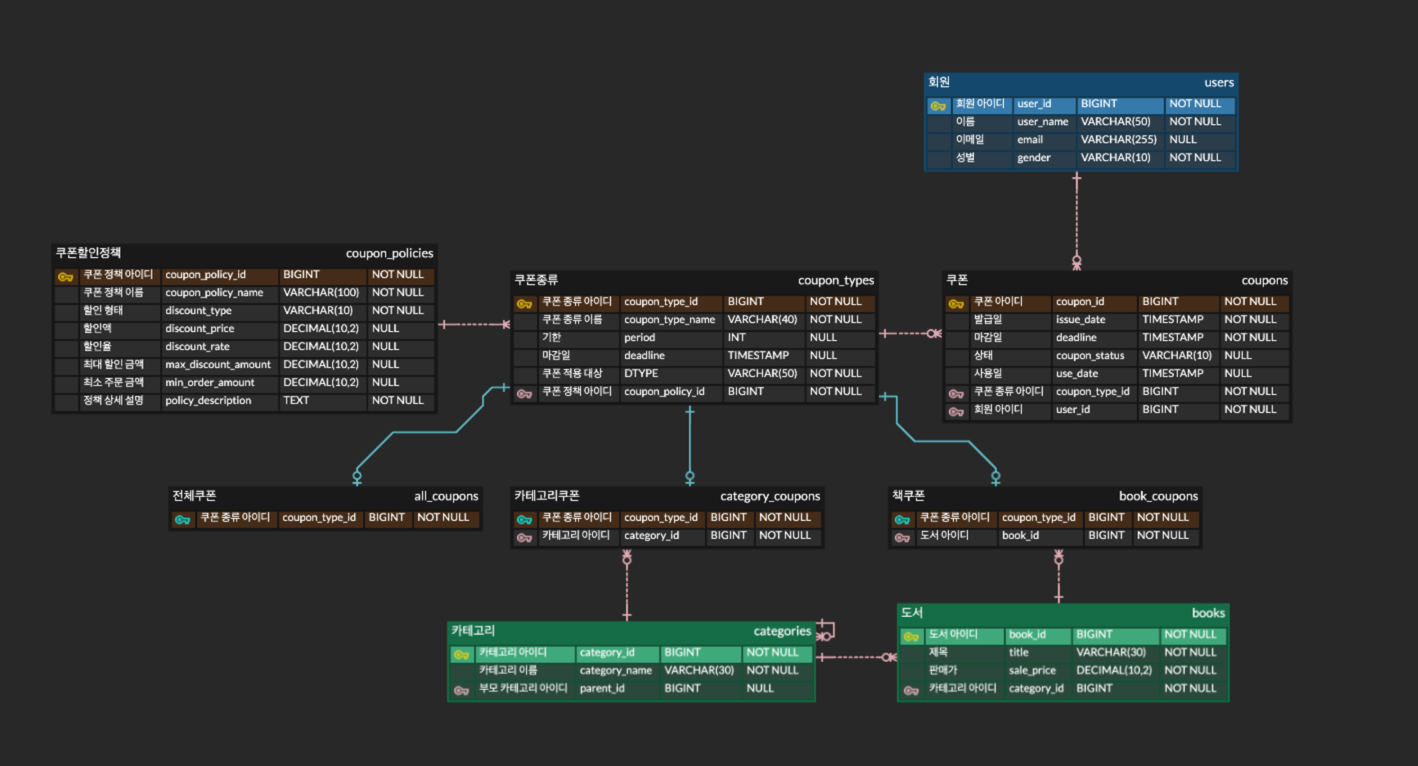
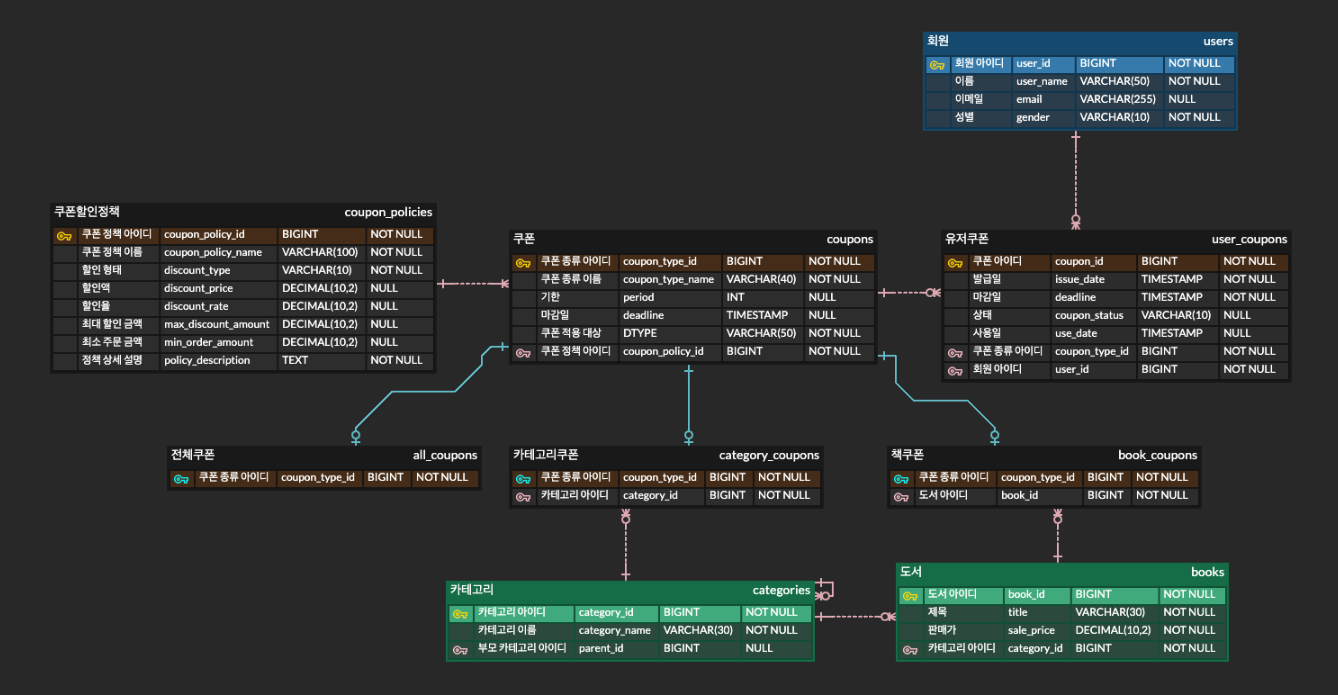
update README

diff --git a/README.md b/README.md
@@ -16,3 +16,21 @@
 ## 심심북스 쿠폰 서버 ERD
 
 ![img.png](img.png)
+
+기존 심심북스 프로젝트의 쿠폰 관련 테이블명을 조금 변경했습니다.   
+### 변경 전   
+- couponTypes   
+    - 쿠폰을 적용하는 대상이 여러 유형으로 나뉜다는 점에서 couponType 이라고 지었습니다.
+- coupons
+  -  사용자가 실제로 사용하는 쿠폰 데이터를 담고 있으므로, user 엔티티가 coupon 엔티티를 참조하는 관점에서 테이블명을 coupons로 지정하였습니다.
+
+### 변경 후   
+- couponTypes --> coupons
+  - 쿠폰 정책과 관련하여 쿠폰에 대한 전반적인 정보를 함께 관리하므로, 이를 명확하게 표현하기 위해 테이블명을 coupons로 변경하였습니다.
+- coupons --> user_coupons
+  - 이 테이블은 쿠폰 자체의 정보보다는 사용자가 발급받은 쿠폰 데이터를 저장하며, 쿠폰 테이블과 회원 테이블을 연결하는 역할을 수행하기 때문에, 테이블명을 coupons에서 user_coupons로 변경하였습니다.      
+
+### 변경 이유 및 배경
+기존에는 couponPolicy와 couponType이라는 용어가 중복된 느낌을 주어 혼란스러웠습니다.   
+이를 개선하기 위해, 테이블명을 couponTypes에서 coupons로, coupons에서 user_coupons로 변경하였습니다.   
+변경 후 coupons 테이블은 쿠폰에 대한 전반적인 정보를, user_coupons 테이블은 사용자가 발급받은 쿠폰 정보를 담아 각각의 역할을 보다 명확하게 나타내고자 했습니다.
